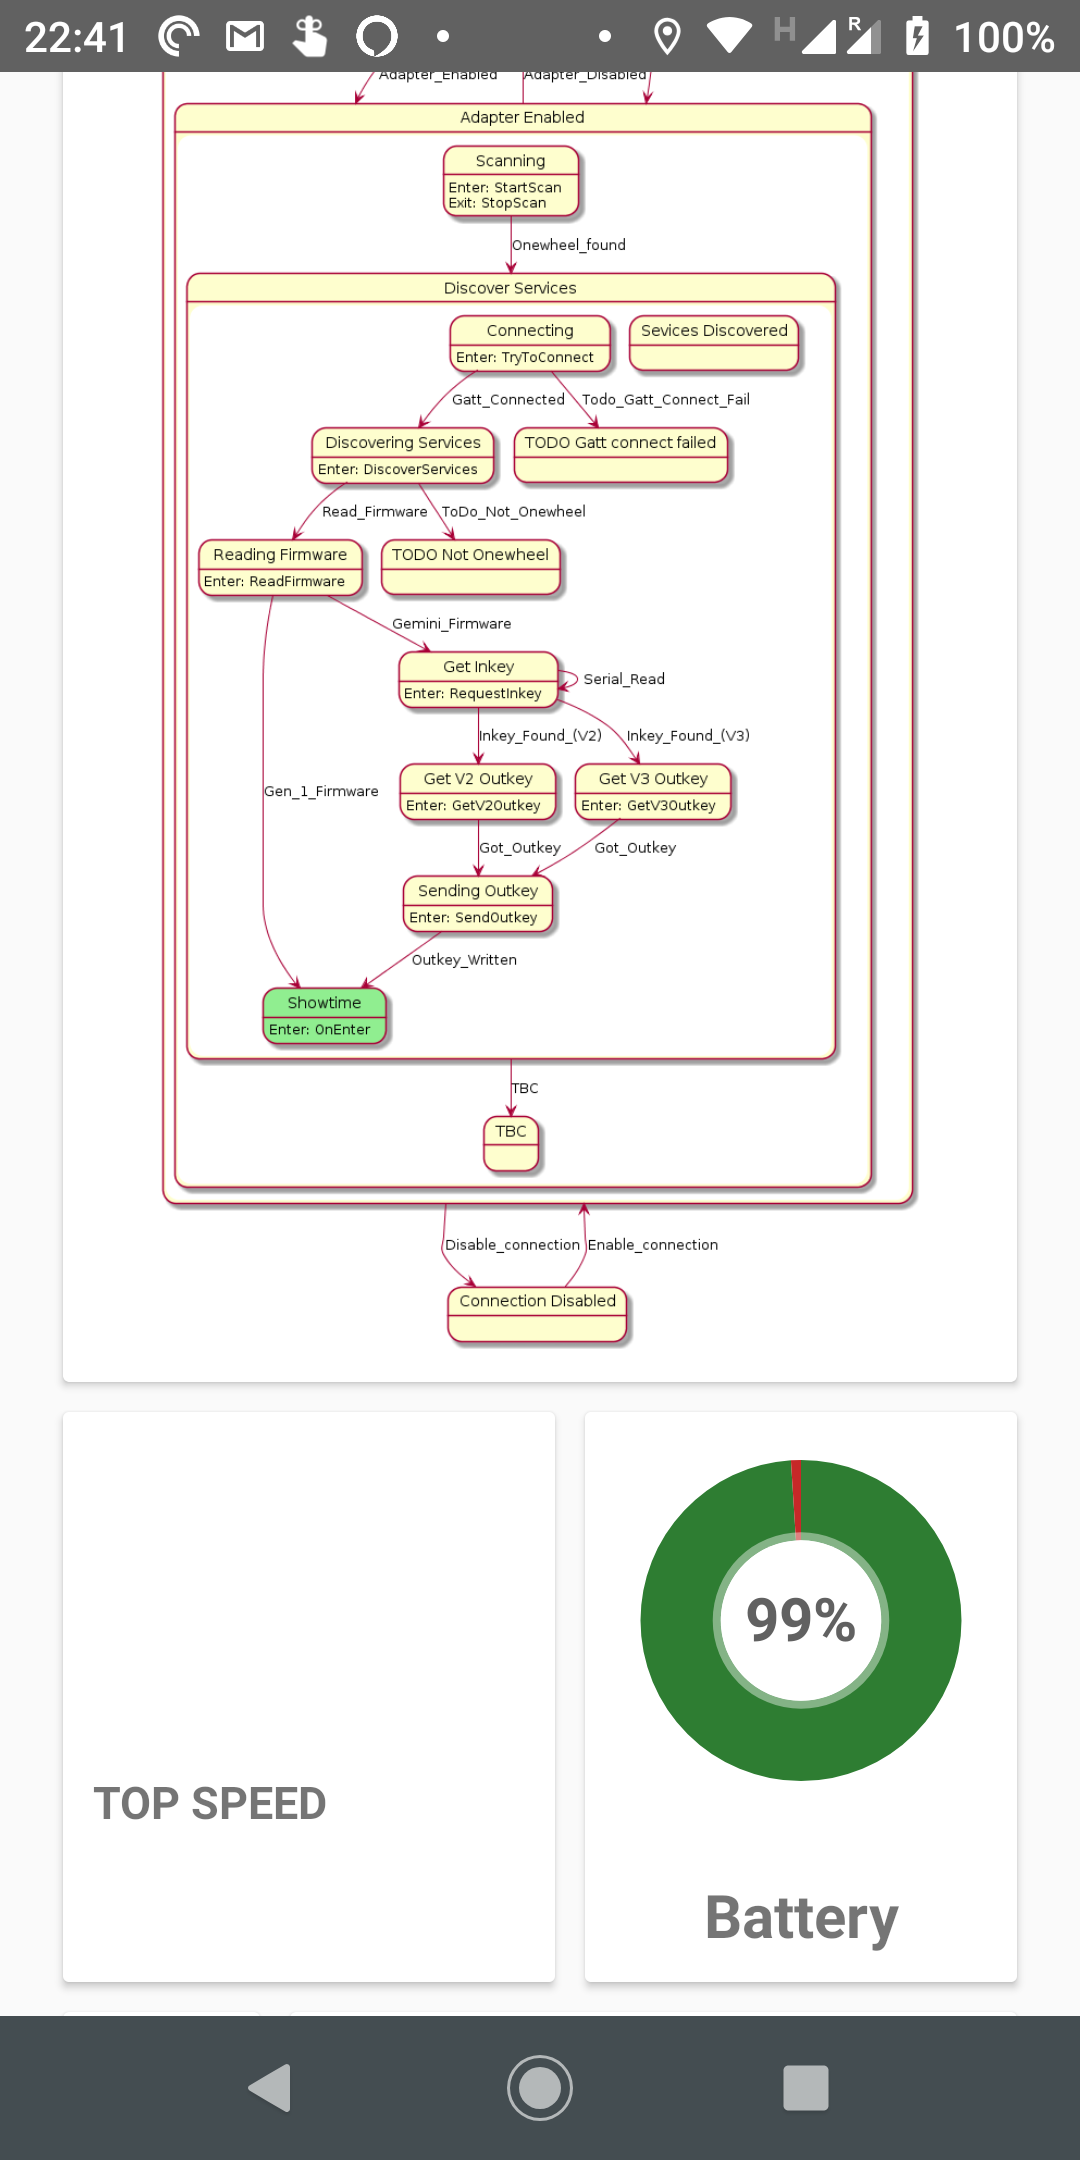
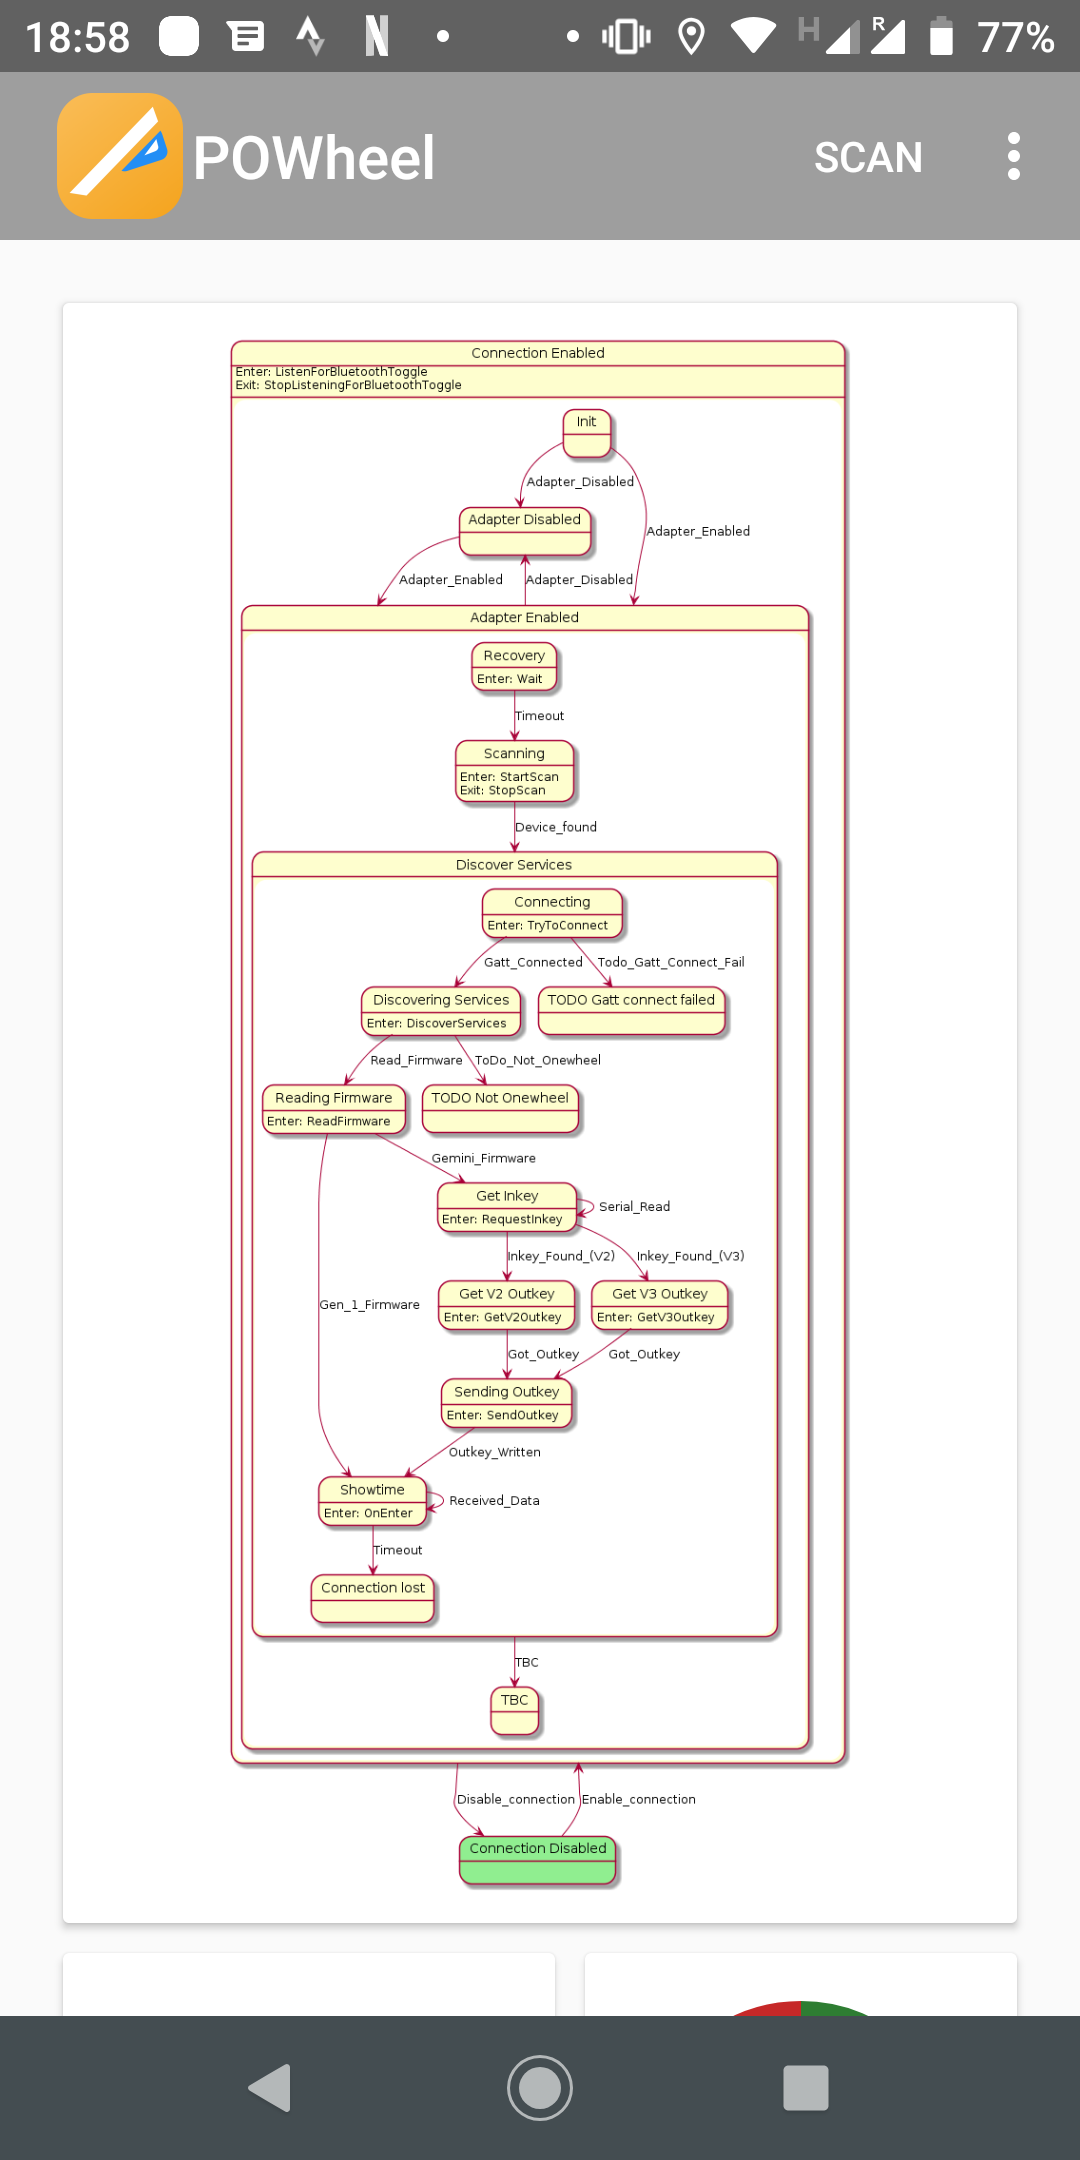
Detect connection drop

Changed region(s): [[0.0, 0.0, 1.0, 0.8995], [0.6417, 0.8685, 0.8556, 0.9306], [0.275, 0.6204, 0.3056, 0.6514]]

diff --git a/app/src/main/java/net/kwatts/powtools/util/BluetoothUtilImpl.java b/app/src/main/java/net/kwatts/powtools/util/BluetoothUtilImpl.java
@@ -966,6 +966,7 @@ public class BluetoothUtilImpl implements BluetoothUtil, DiagramCache.CacheFille
 
                     mOWDevice.processUUID(bluetoothGattCharacteristic);
                     mOWDevice.setBatteryRemaining(mainActivity);
+                    handleStateMachineEvent(Event.ReveivedData.ID);
                 }
 
 
@@ -1012,16 +1013,15 @@ public class BluetoothUtilImpl implements BluetoothUtil, DiagramCache.CacheFille
             private GetInkeyState getInkeyState;
             private ConnectingState connectingState;
             private DiscoveringServicesState discoveringServicesState;
-            private ServicesDiscoveredState servicesDiscoveredState;
             private GetOutkeyV3State getOutKeyV3State;
             private GetOutkeyV2State getOutKeyV2State;
             private SendingOutkeyState sendingOutkeyState;
+            public ShowTimeState showTimeState;
 
             public State build() {
 
                 connectingState = new ConnectingState();
                 discoveringServicesState = new DiscoveringServicesState();
-                servicesDiscoveredState = new ServicesDiscoveredState();
                 State readingFirmawareState = new ReadingFirmwareState();
                 getInkeyState = new GetInkeyState();
                 getOutKeyV2State = new GetOutkeyV2State();
@@ -1030,6 +1030,7 @@ public class BluetoothUtilImpl implements BluetoothUtil, DiagramCache.CacheFille
 
                 State gattConnectFailed = new State("TODO Gatt connect failed");
                 State notOnewheel = new State("TODO Not Onewheel");
+                State connectionLost = new State("Connection lost");
 
                 discoveringServicesState.addHandler(TODO_NOT_ONEWHEEL, notOnewheel, TransitionKind.External);
                 discoveringServicesState.addHandler(READ_FIRMWARE_REVISION, readingFirmawareState, TransitionKind.External);
@@ -1038,7 +1039,7 @@ public class BluetoothUtilImpl implements BluetoothUtil, DiagramCache.CacheFille
                 connectingState.addHandler(GATT_CONNECTED, discoveringServicesState, TransitionKind.External);
                 connectingState.addHandler(TODO_GATT_CONNECT_FAIL, gattConnectFailed, TransitionKind.External);
 
-                ShowTimeState showTimeState = new ShowTimeState();
+                showTimeState = new ShowTimeState();
                 readingFirmawareState.addHandler(GEN_1_FIRMWARE, showTimeState, TransitionKind.External);
                 readingFirmawareState.addHandler(Event.GeminiFirmware.ID, getInkeyState, TransitionKind.External);
 
@@ -1050,10 +1051,12 @@ public class BluetoothUtilImpl implements BluetoothUtil, DiagramCache.CacheFille
 
                 sendingOutkeyState.addHandler(Event.OutkeyWritten.ID, showTimeState, TransitionKind.External);
 
+                showTimeState.addHandler(Event.ReveivedData.ID, showTimeState, TransitionKind.Internal, new OnReceivedData());
+                showTimeState.addHandler(Event.Timeout.ID, connectionLost, TransitionKind.External);
+
                 DiscoverSericesState discoverSericesState = new DiscoverSericesState(
                         connectingState,
                         discoveringServicesState,
-                        servicesDiscoveredState,
                         readingFirmawareState,
                         showTimeState,
                         getInkeyState,
@@ -1062,7 +1065,8 @@ public class BluetoothUtilImpl implements BluetoothUtil, DiagramCache.CacheFille
                         sendingOutkeyState,
 
                         gattConnectFailed,
-                        notOnewheel);
+                        notOnewheel,
+                        connectionLost);
 
 
                 connectingState.inject(discoverSericesState.bluetoothGattCallback);
@@ -1108,12 +1112,6 @@ public class BluetoothUtilImpl implements BluetoothUtil, DiagramCache.CacheFille
                 }
             }
 
-            private class ServicesDiscoveredState extends State {
-                public ServicesDiscoveredState() {
-                    super("Sevices Discovered");
-                }
-            }
-
             private void discoverGattServices(Map<String, Object> mPayload1) {
                 BluetoothGatt gatt = (BluetoothGatt) mPayload1.get(BluetoothGatt.class.getSimpleName());
                 gatt.discoverServices();
@@ -1138,9 +1136,16 @@ public class BluetoothUtilImpl implements BluetoothUtil, DiagramCache.CacheFille
             }
 
             private class ShowTimeState extends State {
+
+                public static final int TIMEOUT = 5000;
+
                 public ShowTimeState() {
                     super("Showtime");
                     onEnter(new OnEnter());
+                }
+
+                public void OnReceivedData() {
+                    setStateTimeout(Event.Timeout.ID, TIMEOUT);
                 }
 
                 private class OnEnter extends Action {
@@ -1148,6 +1153,7 @@ public class BluetoothUtilImpl implements BluetoothUtil, DiagramCache.CacheFille
                     public void run() {
                         BluetoothUtil bluetoothUtil = getBluetoothUtil();
                         bluetoothUtil.whenActuallyConnected();
+                        setStateTimeout(Event.Timeout.ID, TIMEOUT);
                     }
                 }
             }
@@ -1274,6 +1280,14 @@ public class BluetoothUtilImpl implements BluetoothUtil, DiagramCache.CacheFille
                         gatt.setCharacteristicNotification(CharacteristicUartSerialRead, false);
                     }
 
+                }
+            }
+
+            private class OnReceivedData extends Action {
+
+                @Override
+                public void run() {
+                    showTimeState.OnReceivedData();
                 }
             }
         }

diff --git a/app/src/main/java/net/kwatts/powtools/BluetoothStateMachine/Event.java b/app/src/main/java/net/kwatts/powtools/BluetoothStateMachine/Event.java
@@ -37,5 +37,9 @@ public class Event {
     public class Timeout {
         public static final String ID = "Timeout";
     }
+
+    public class ReveivedData {
+        public static final String ID = "Received Data";
+    }
 }
 
